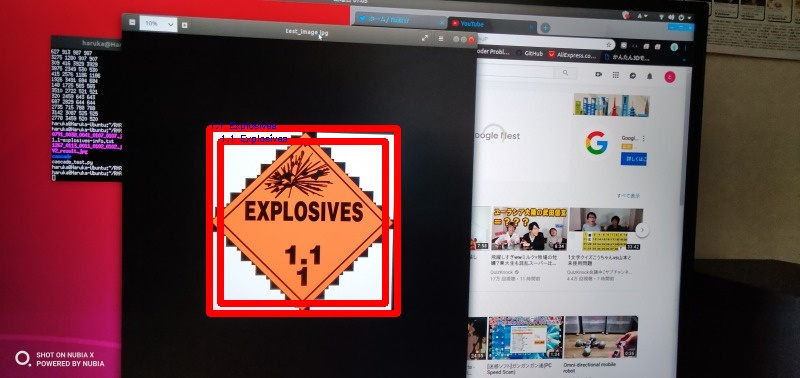
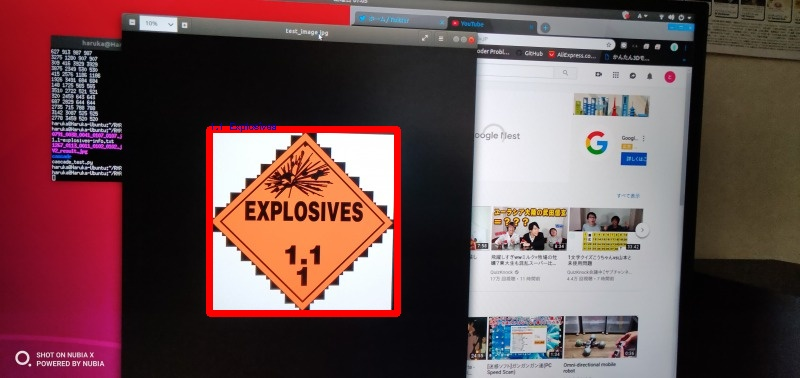
名前の修正と平滑化の調整

Changed region(s): [[0.25, 0.3201, 0.5, 0.8148]]

diff --git a/SIFT/classification-SIFT/classification-image.py b/SIFT/classification-SIFT/classification-image.py
@@ -3,9 +3,7 @@ import cv2
 import os
 
 placards_path = "./hazmat-placards/"
-hazmat_placards = [placards_path + sign_name for sign_name in os.listdir(placards_path)]
 camera_img = cv2.imread("IMG_20190615_070527.jpg")
-ans = []
 result = []
 
 #hazmat_list = [(img1,name1),(img2,name2),・・・,(img26,name26)]
@@ -45,7 +43,7 @@ detector = cv2.xfeatures2d.SIFT_create()
 camera_gray = cv2.cvtColor(camera_img,cv2.COLOR_BGR2GRAY)
 
 #ブラーと２値化
-camera_blur = cv2.GaussianBlur(camera_gray,(7,7),0)
+camera_blur = cv2.GaussianBlur(camera_gray,(19,19),0)
 img2 = cv2.threshold(camera_blur,140,240,cv2.THRESH_BINARY_INV)[1]
 
 #輪郭検出
@@ -59,10 +57,10 @@ for pt in cnts:
 
 cv2.imwrite("a.png",camera_img)
 '''
-
+print(len(cnts))
 for pt in cnts:
     x,y,w,h = cv2.boundingRect(pt)
-    if w > 100 and h > 100 and w < 800 and h < 378:   #輪郭の縦横がそれぞれ100以上のときのみ正しいとする
+    if w > 100 and h > 100 and w < 800 and h < 378:   #輪郭の縦横が小さすぎたり大きすぎたりするものを弾く
         clipped = camera_gray[y:(y+h),x:(x+w)]
         #kp2,des2はカメラからの画像の特徴的な点の位置、特徴を表すベクトル
         kp2,des2 = detector.detectAndCompute(clipped,None)
